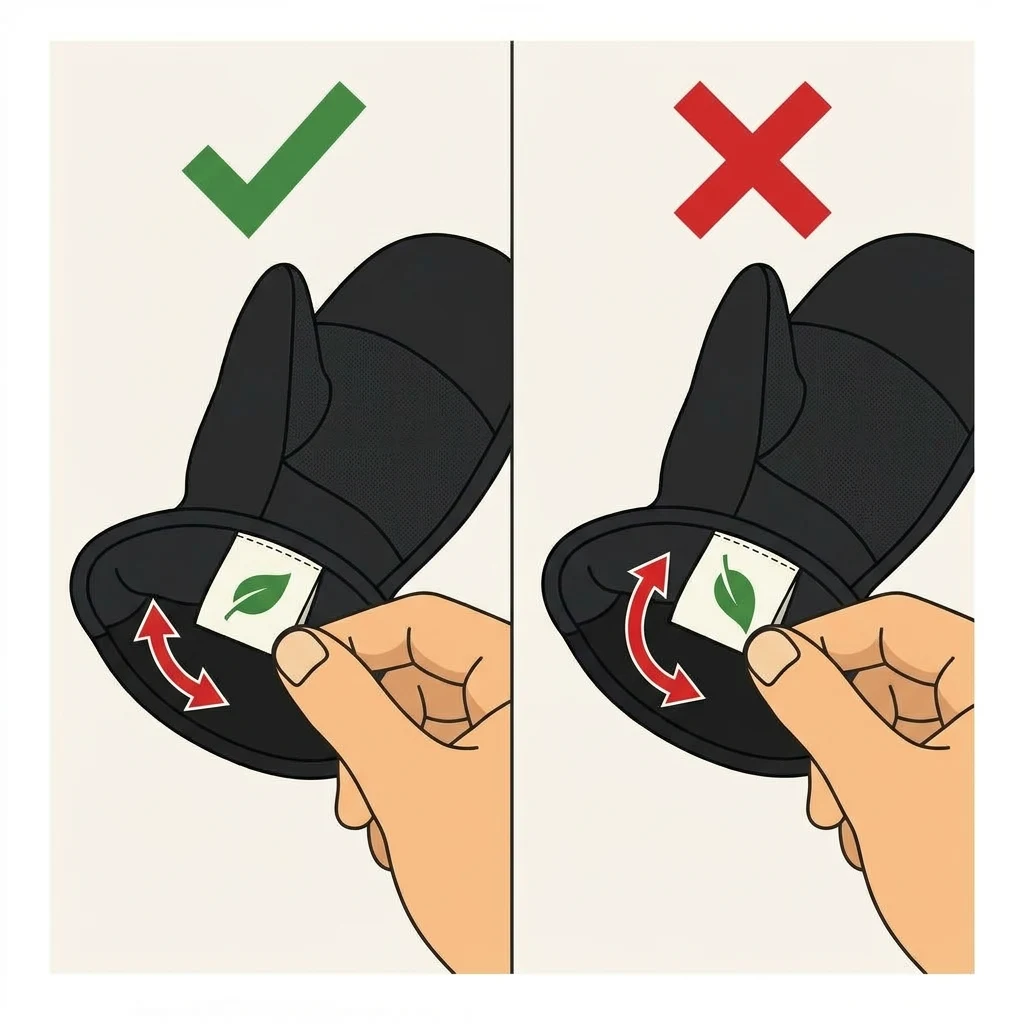
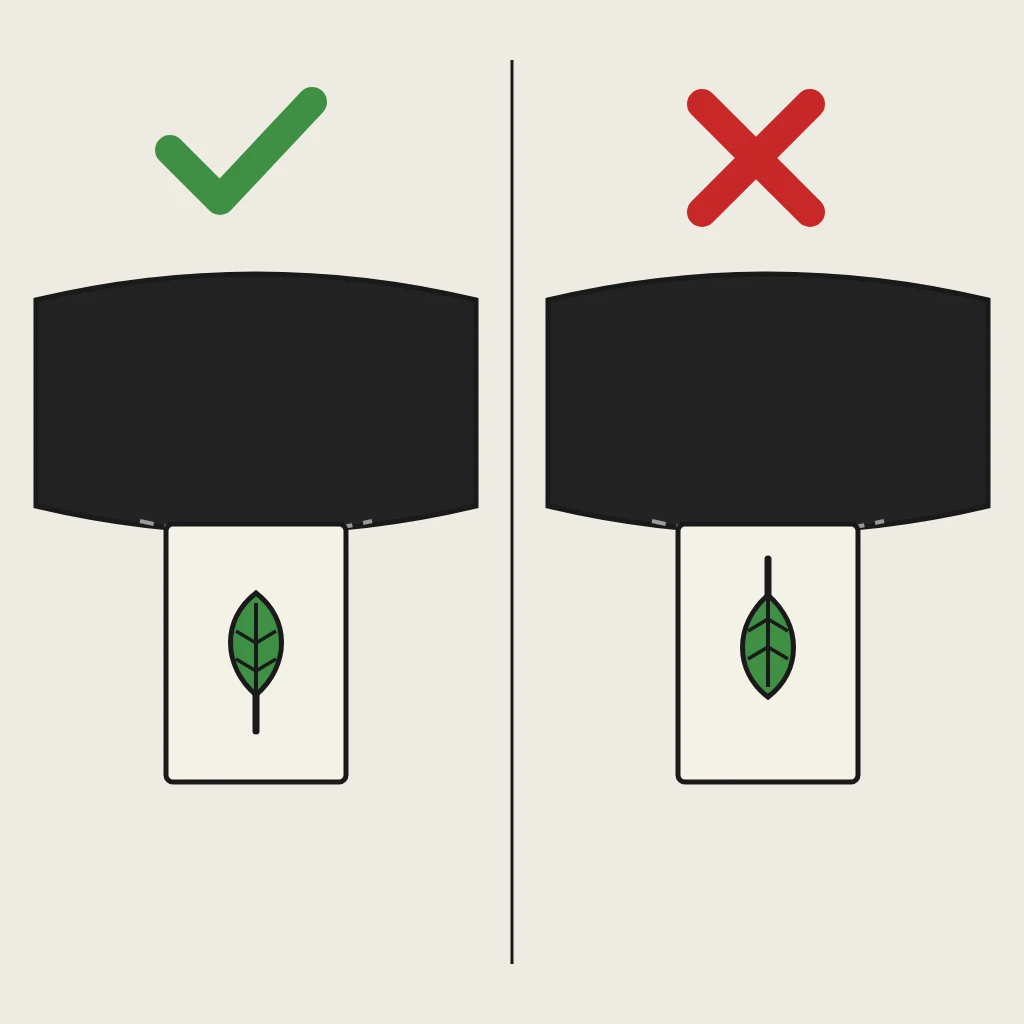
Donner plusieurs photos au modèle, et corriger deux détails inventés
Une seule photo de référence par planche laissait le modèle inventer tout ce
qu'elle ne montrait pas. Il a rendu les bretelles de la glacière rembourrées et
vertes alors que ce sont de simples sangles noires, parce qu'aucune vue fournie
ne les montrait de près. Le générateur envoie maintenant TROIS vues du produit
par défaut, avec la consigne explicite qu'elles font autorité sur la forme, les
coutures, les garnitures et les couleurs — y compris ce dont le texte ne parle
pas — et qu'aucun détail ne s'invente.

Deux corrections de fond, signalées par l'Admin QC :

- Le pourtour de la semelle est cousu au POINT DROIT, pas au surjet. J'avais lu
  un surjet sur une photo trop petite et je l'avais écrit dans la consigne ;
  c'est la deuxième fois que je me trompe sur ce bord, après le collage.
- Les bretelles de la glacière sont de simples sangles plates et noires.

Le panneau d'orientation de l'étiquette est désormais dessiné à la main en SVG,
source conservée dans statique/planches/sources/. Deux générations de suite
avaient dessiné les deux moitiés dans le même sens : un modèle d'image ne
dessine pas volontairement un détail mal fait à l'échelle d'une petite feuille.
Fait au trait, la tige pointe vers le bas à gauche et vers le haut à droite, et
ça se lit même en vignette. 14 Ko au lieu de 60.

Claude-Session: https://claude.ai/code/session_01954X9VVgP1YHDjc7WYAugY

diff --git a/mrp/outils/planches_ia.js b/mrp/outils/planches_ia.js
@@ -78,11 +78,26 @@ function tsv(fichier) {
 // construction : les semelles y sont dans leur emballage, les bandeaux posés à
 // sept couleurs côte à côte. « handle#rang » désigne donc une autre photo de la
 // même fiche, celle qui montre la pièce qu'on doit contrôler.
-function photoDe(handle) {
-  if (!handle) return null;
-  const [nom, rang = '1'] = handle.split('#');
-  const r = tsv(PHOTOS).find(x => x.handle === nom && x.rang === rang);
-  return r ? r.url : null;
+// PLUSIEURS photos, pas une. Une seule vue laisse le modèle inventer le reste :
+// il a rendu les bretelles de la glacière rembourrées et vertes alors que ce
+// sont de simples sangles noires, parce qu'aucune photo fournie ne les montrait
+// de près. Trois vues valent mieux qu'une consigne écrite.
+//
+//   « handle »        les trois premières photos de la fiche
+//   « handle#2,5,9 »  ces vues-là, quand la première est un emballage ou un
+//                     alignement de coloris qui ne montre pas la construction
+function photosDe(handle) {
+  if (!handle) return [];
+  const [nom, rangs] = handle.split('#');
+  const toutes = tsv(PHOTOS).filter(x => x.handle === nom);
+  if (rangs) {
+    return rangs.split(',')
+      .map(r => toutes.find(x => x.rang === r.trim()))
+      .filter(Boolean).map(x => x.url);
+  }
+  return toutes
+    .sort((a, b) => Number(a.rang) - Number(b.rang))
+    .slice(0, 3).map(x => x.url);
 }
 
 async function reference(url) {
@@ -102,16 +117,19 @@ async function dessiner(cle, panneau, precedent) {
   const entree = [{ type: 'text', text: `${STYLE}\n\n${panneau.prompt}` }];
 
   if (panneau.handle) {
-    const url = photoDe(panneau.handle);
-    if (!url) throw new Error(`aucune photo pour le handle « ${panneau.handle} »`);
+    const urls = photosDe(panneau.handle);
+    if (!urls.length) throw new Error(`aucune photo pour le handle « ${panneau.handle} »`);
     entree.push({
       type: 'text',
-      text: 'The reference photograph below shows the actual product. Draw THAT '
-          + 'product — its proportions, its seams, its hardware, its colour — '
-          + 'not a generic equivalent. Do not copy the photograph: redraw it in '
-          + 'the flat instructional style described above.',
+      text: `The next ${urls.length} photographs are different views of the ACTUAL `
+          + 'product. Study them together: they are the authority on its shape, its '
+          + 'proportions, its seams, its stitching, its hardware and its colours — '
+          + 'including the parts the written instruction does not mention. Draw THAT '
+          + 'product, not a generic equivalent, and do not invent a detail you cannot '
+          + 'see in them. Do not copy a photograph: redraw the product in the flat '
+          + 'instructional style described above.',
     });
-    entree.push(await reference(url));
+    for (const u of urls) entree.push(await reference(u));
   }
 
   if (precedent) {
